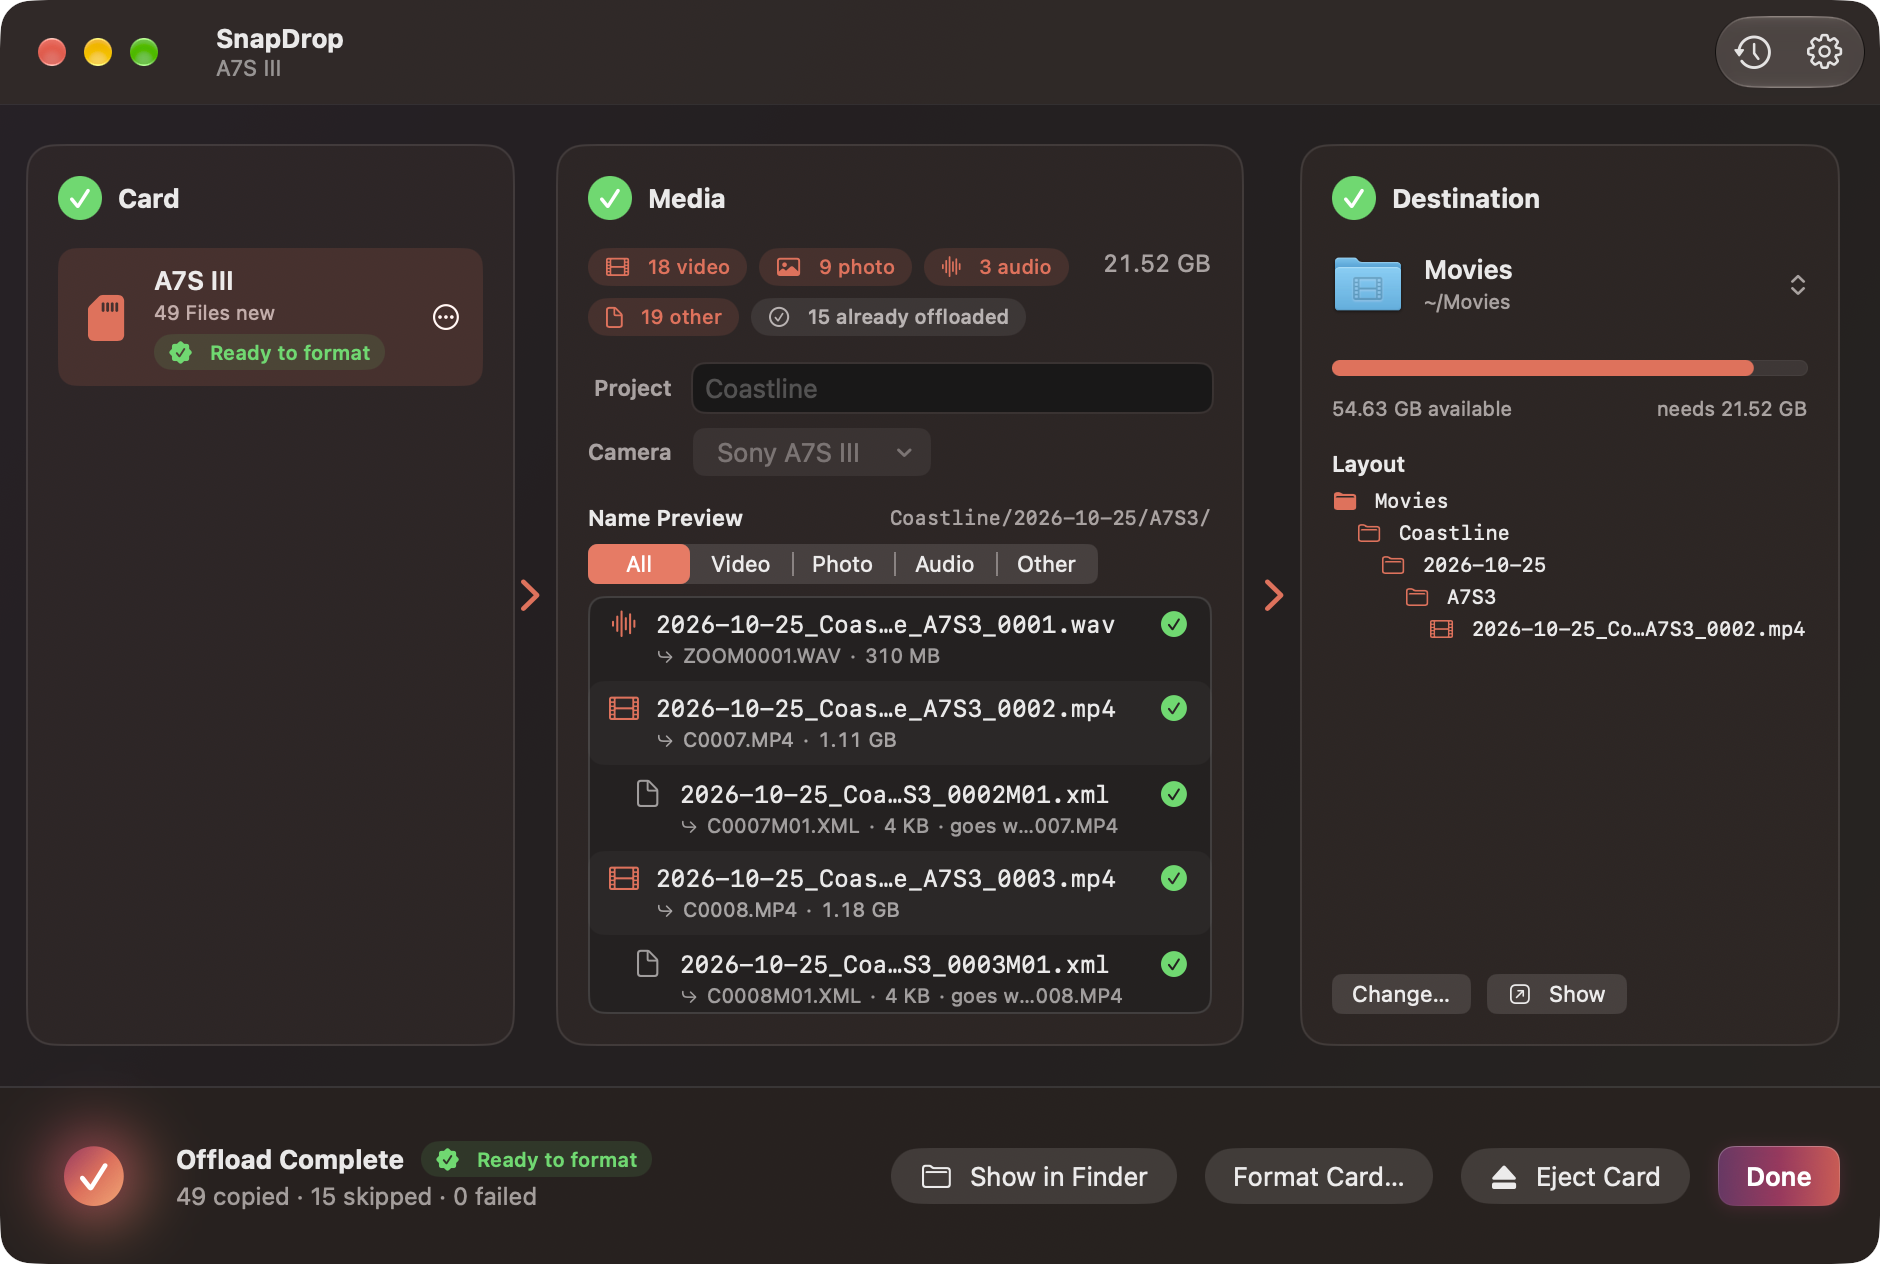
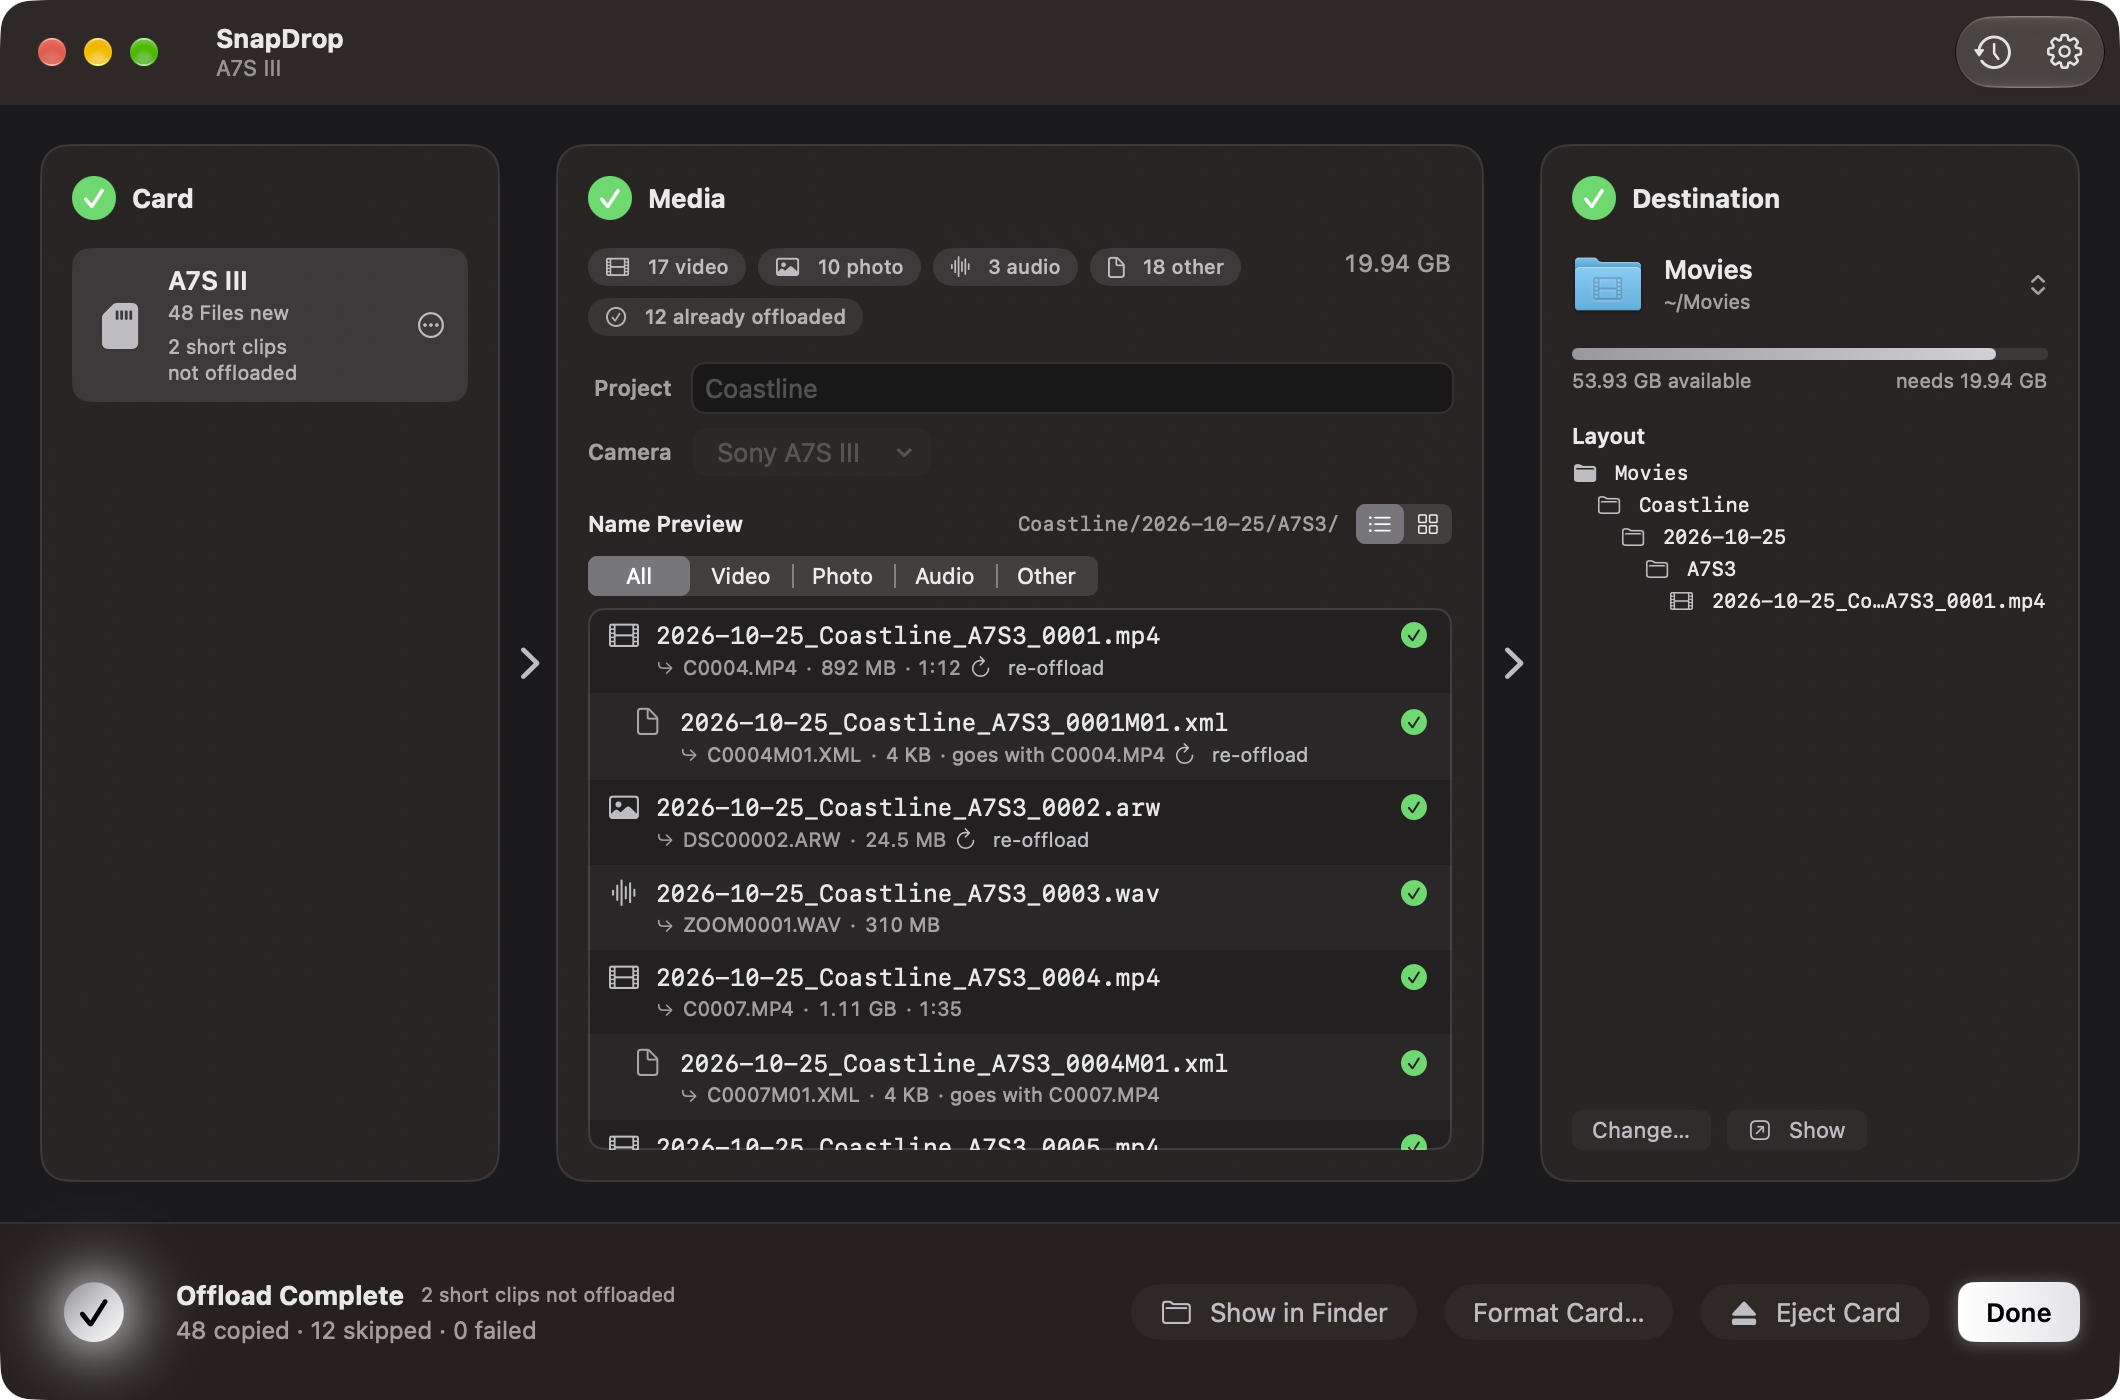
Update README and screenshots for Default black, grid, Quick Look, short clips and re-offload

diff --git a/README.md b/README.md
@@ -3,7 +3,7 @@
 A small native macOS app (SwiftUI) that offloads camera SD cards — video, photos, audio
 and sidecar files — safely, verified, and named the way you want.
 
-![SnapDrop ready to offload a card](Design/screenshots/ready-light.png)
+![SnapDrop ready to offload a card](Design/screenshots/ready-dark.png)
 
 ## What it does
 
@@ -73,21 +73,69 @@ When you insert a card SnapDrop fills in the funnel and brings its window to the
 no pop-up sheet. The clock button in the toolbar shows **Recent Offloads**.
 Animations follow System Settings → Accessibility → Display → **Reduce motion**.
 
-The colours come from the Comet A app icon — plum, magenta, coral and a warm orange — as a
-very soft wash behind the window, the gradient **Offload** button, the progress bar, the
-glowing border of the step that needs you, the dots flowing between steps while copying
-and the glow when an offload completes. With **Increase contrast** or **Reduce
-transparency** turned on, SnapDrop uses solid colours instead of gradients. The palette
-lives in one place, `Theme.swift`; the app's accent colour (`AccentColor` in the asset
-catalog) is magenta in Light Mode and coral in Dark Mode.
+SnapDrop opens in Dark Mode with the neutral **Default** theme: a near-black window, a
+white **Offload** button with black text, and white-to-grey progress, glow and flowing dots
+— no brand colour. The ready-to-format badge and verified ticks stay green. Colour themes
+and Light Mode are one click away in [Settings → Appearance](#themes-and-appearance).
 
-| Ready | Copying | Finished (Dark Mode) |
+| Ready | Copying | Finished |
 | --- | --- | --- |
-| ![](Design/screenshots/ready-light.png) | ![](Design/screenshots/running-light.png) | ![](Design/screenshots/finished-dark.png) |
+| ![](Design/screenshots/ready-dark.png) | ![](Design/screenshots/running-dark.png) | ![](Design/screenshots/finished-dark.png) |
 
-| No card | Ready (Dark Mode) |
+| No card | Light Mode | Ember theme |
+| --- | --- | --- |
+| ![](Design/screenshots/empty-dark.png) | ![](Design/screenshots/ready-light.png) | ![](Design/screenshots/ready-ember-dark.png) |
+
+## Thumbnails and Quick Look
+
+The switch above the Media list (☰ / ▦) shows the files as a **list** or a **thumbnail
+grid**; SnapDrop remembers your choice. In the grid each tile has a thumbnail, the new name
+(shortened in the middle), the clip's length, its type, and a "+1" paperclip for sidecars
+that travel with it. While copying, the current tile shows a progress ring and verified
+tiles get a green tick; files offloaded before are dimmed, missing copies get a warning, and
+skipped short clips are striped with **Include Anyway** in their right-click menu. The
+filter and right-click menus work the same in both views. **Settings → Appearance →
+Show thumbnails in the list** adds small thumbnails to list rows too.
+
+Thumbnails come from Quick Look, are made in the background (four at a time, one at a time
+while copying), are cached by path, size and modification date, and are only ever *read*
+from the card. Formats Quick Look can't draw (BRAW, R3D, MXF, XML…) show a symbol instead.
+
+**Quick Look:** select files and press **Space** (or double-click, or right-click →
+**Quick Look**). The arrow keys move through the files in the order shown, following the
+filter; with several files selected (⌘-click, ⇧-click) the panel steps through just those.
+Files Quick Look can't open show *No preview available for .braw*.
+
+| Grid | Grid (Light Mode) |
 | --- | --- |
-| ![](Design/screenshots/empty-light.png) | ![](Design/screenshots/ready-dark.png) |
+| ![](Design/screenshots/grid-dark.png) | ![](Design/screenshots/grid-light.png) |
+
+## Skipping short clips
+
+Accidental takes — a clip you started and stopped right away — don't need to be offloaded.
+With **Settings → General → Skip short videos** (on by default) videos shorter than
+**5 seconds** (adjustable from 1 to 60) stay on the card, together with their sidecars. The
+Media panel shows *2 short clips skipped*; click it to see them and choose **Include
+Anyway** for one or **Include All** for every one. Clips whose length can't be read (BRAW,
+R3D) are always offloaded.
+
+A card whose only remaining files are skipped short clips can still be formatted — the
+button then reads **Format and Discard N Short Clips**, so it's clear they'll be lost.
+
+## Re-offloading
+
+Offloaded files aren't copied again, but sometimes you want them to be: a copy was deleted
+from the destination, or you want a second copy somewhere else. **Re-offload…** in the
+Media panel offers:
+
+- **Re-offload Missing Copies** — files the ledger has but whose copy is gone or changed
+  size (shown as *3 missing at destination*).
+- **Re-offload Everything on This Card…** — copy the whole card again.
+- Per file, from the right-click menu: **Re-offload This File** / **Don't Re-offload**.
+
+Re-offloaded files are marked *re-offload* and always land as new copies; nothing existing
+is ever overwritten. The card's **…** menu also has **Forget This Card's History…**, which
+clears the ledger for that card so everything on it counts as new.
 
 ## Formatting a card
 
@@ -132,8 +180,11 @@ folder so a folder that's renamed or moved is still found.
 ## Settings (⌘,)
 
 **General** — the current destination folder; which [file types](#file-types) to offload (all on by
-default); *Eject card after offload* (off by default, and only when every file copied and
-verified); *Play a sound when an offload finishes* (on by default).
+default); [*Skip short videos*](#skipping-short-clips) and the length; *Eject card after
+offload* (off by default, and only when every file copied and verified); *Play a sound when
+an offload finishes* (on by default).
+
+**Appearance** — see [Themes and appearance](#themes-and-appearance).
 
 **Naming** — a folder template and a file template, presets, and a live example.
 Click a token chip to insert it where you were typing. Mistakes (an unclosed `{`, an
@@ -169,9 +220,30 @@ and picks it again next time. *Edit Cameras…* in that menu jumps straight here
 
 **Destinations** — your [favorite destinations](#favorite-destinations).
 
-| Naming | Cameras | Destinations |
-| --- | --- | --- |
-| ![](Design/screenshots/settings-naming.png) | ![](Design/screenshots/settings-cameras.png) | ![](Design/screenshots/settings-destinations.png) |
+| General | Naming | Cameras | Destinations |
+| --- | --- | --- | --- |
+| ![](Design/screenshots/settings-general.png) | ![](Design/screenshots/settings-naming.png) | ![](Design/screenshots/settings-cameras.png) | ![](Design/screenshots/settings-destinations.png) |
+
+### Themes and appearance
+
+**Settings → Appearance** has the theme, Light / Dark / System, and how the Media files are
+shown.
+
+- **Default** (the default) is neutral black and white, with no coloured wash.
+- **Aurora**, **Ocean**, **Twilight**, **Ember** and **Forest** are optional colour
+  gradients: a soft wash behind the window, the gradient **Offload** button, the progress
+  bar, the glowing border of the step that needs you, the dots flowing between steps and the
+  glow when an offload completes.
+- **Appearance** is **Dark** unless you pick Light or System.
+
+With **Increase contrast** or **Reduce transparency** turned on, every theme uses solid
+colours instead of gradients. Every theme is tuned separately for Light and Dark and keeps
+button text readable (checked by `ThemeTests`). The palettes live in one place,
+`Theme.swift`; the asset catalog's `AccentColor` is a neutral graphite, the fallback outside
+SwiftUI. Older versions had a "Comet" theme (and "Graphite"); a saved choice of either
+becomes Default.
+
+![Settings → Appearance](Design/screenshots/settings-appearance.png)
 
 ## File types
 
@@ -239,11 +311,16 @@ open -n build/DerivedData/Build/Products/Debug/SnapDrop.app --args \
 ```
 
 States: `empty`, `ready`, `running`, `finished`. Appearance: `light` or `dark`.
-Add `-SnapDropDemoSettingsTab general|destinations|naming|cameras` to open Settings on that
-tab, `-SnapDropDemoShowFormatAlert YES` to show the Format confirmation, or
+Add `-SnapDropDemoSettingsTab general|appearance|destinations|naming|cameras` to open Settings on that
+tab, `-SnapDropDemoTheme ember` (or `default`, `aurora`, `ocean`, `twilight`, `forest`) for a
+theme, `-SnapDropDemoLayout grid` for the thumbnail grid (`-SnapDropDemoListThumbnails YES`
+for list thumbnails), `-SnapDropDemoScope skipped|offloaded` to show the skipped short clips
+or the files offloaded before, `-SnapDropDemoQuickLook C0008.MP4` to open Quick Look on a file,
+`-SnapDropDemoWindowSize 1060x700` to size the window (centred on the sharpest screen), `-SnapDropDemoShowFormatAlert YES` to show the Format confirmation, or
 `-SnapDropDemoPlainTheme YES` to see the solid colours used with Increase contrast.
 Formatting can never run in demo mode.
-The sample card has clips with Sony XML sidecars, RAW photos, WAVs and a few cameras.
+The sample card has clips with Sony XML sidecars, RAW photos, WAVs, two short clips, a few
+missing copies and a few cameras; thumbnails are drawn placeholders in the theme's colours.
 Every view also has `#Preview`s you can open in Xcode's canvas.
 
 ## Code tour
@@ -252,12 +329,15 @@ Every view also has `#Preview`s you can open in Xcode's canvas.
 | --- | --- |
 | `SnapDropApp.swift` | App entry point: main window and Settings scene |
 | `AppModel.swift` | Ties settings, cameras, destinations, card watcher, ledger and the current offload together; eject, format, sound |
-| `Theme.swift` | The Comet A colours, window wash and gradient button style, with solid fallbacks |
+| `Theme.swift` | Themes (Default and the colour gradients), window wash and prominent button style, with solid fallbacks |
 | `ContentView.swift` | Main window: the Card → Media → Destination funnel and toolbar |
 | `FunnelComponents.swift` | Shared pieces: stage panel, step badge, arrows, count pills |
 | `Motion.swift` | Animated pieces: arrow stream, shimmering progress bar, completion burst, row reveal |
 | `CardStageView.swift` | ① Card panel, Ready to format badge, card actions menu |
-| `ClipsStageView.swift` | ② Media panel: counts, project/camera, filterable name preview |
+| `ClipsStageView.swift` | ② Media panel: counts, project/camera, filterable list or grid, selection, re-offload and short-clip controls |
+| `MediaGridViews.swift` | Grid tiles, thumbnails, status badges, progress ring, list/grid switch |
+| `MediaPreview.swift` | Selection, Quick Look order and panel, sidecar folding for the grid |
+| `Thumbnails.swift` | Quick Look thumbnail loading: cache, concurrency limit, cancellation, supported types |
 | `DestinationStageView.swift` | ③ Destination panel: favorites picker, free space, layout |
 | `FormatViews.swift` | Format confirmation, Ready to format badge, format status and buttons |
 | `OffloadBar.swift` | Bottom bar: Offload button, progress/ETA/Cancel, completion actions |
@@ -280,13 +360,16 @@ Every view also has `#Preview`s you can open in Xcode's canvas.
 | `Renamer.swift` | Project-name cleanup and date formatting |
 | `Copier.swift` | Copy + SHA-256 verify of one file, and the whole-card offload loop |
 | `Ledger.swift` | The JSON record of everything offloaded |
-| `Settings.swift` | Preferences: destination, templates, file types, eject, sound, recent projects |
+| `CardInventory.swift` | Every file on a card sorted by what the ledger knows: new, offloaded, or missing at the destination |
+| `ReoffloadAlert.swift` | The Re-offload Everything and Forget This Card's History confirmations |
+| `ShortClips.swift` | The short-clip rule: reading clip lengths, what's skipped and what's included anyway |
+| `Settings.swift` | Preferences: destination, templates, file types, short clips, eject, sound, theme, appearance, media layout, recent projects |
 | `Assets.xcassets/AppIcon` | App icon sizes: the hand-made "Comet A" set from `Design/comet-a/` |
 | `Design/comet-a/` | "Comet A" icon set by Yuwie, one PNG per icon slot |
 | `Design/icon-1024.png` | Master app icon (Comet A, 1024×1024) |
 | `Design/icon-legacy-blue.png`, `.svg` | The previous blue icon, kept for reference |
 | `Design/screenshots/` | Screenshots of the app (taken from demo mode) |
-| `SnapDropTests/` | Unit tests: templates, planner, sidecars, file types, junk skipping, cameras, ledger, copy/verify, end-to-end fake cards, format readiness and safety checks (with a fake `diskutil`), favorite destinations, theme colours |
+| `SnapDropTests/` | Unit tests: templates, planner, sidecars, file types, junk skipping, cameras, ledger, copy/verify, end-to-end fake cards, format readiness and safety checks (with a fake `diskutil`), favorite destinations, themes and their migration, re-offload, short clips, thumbnails and Quick Look order |
 
 The project uses Xcode's folder-synced groups: any `.swift` file you add to the
 `SnapDrop/` folder is automatically part of the app. No third-party dependencies.
